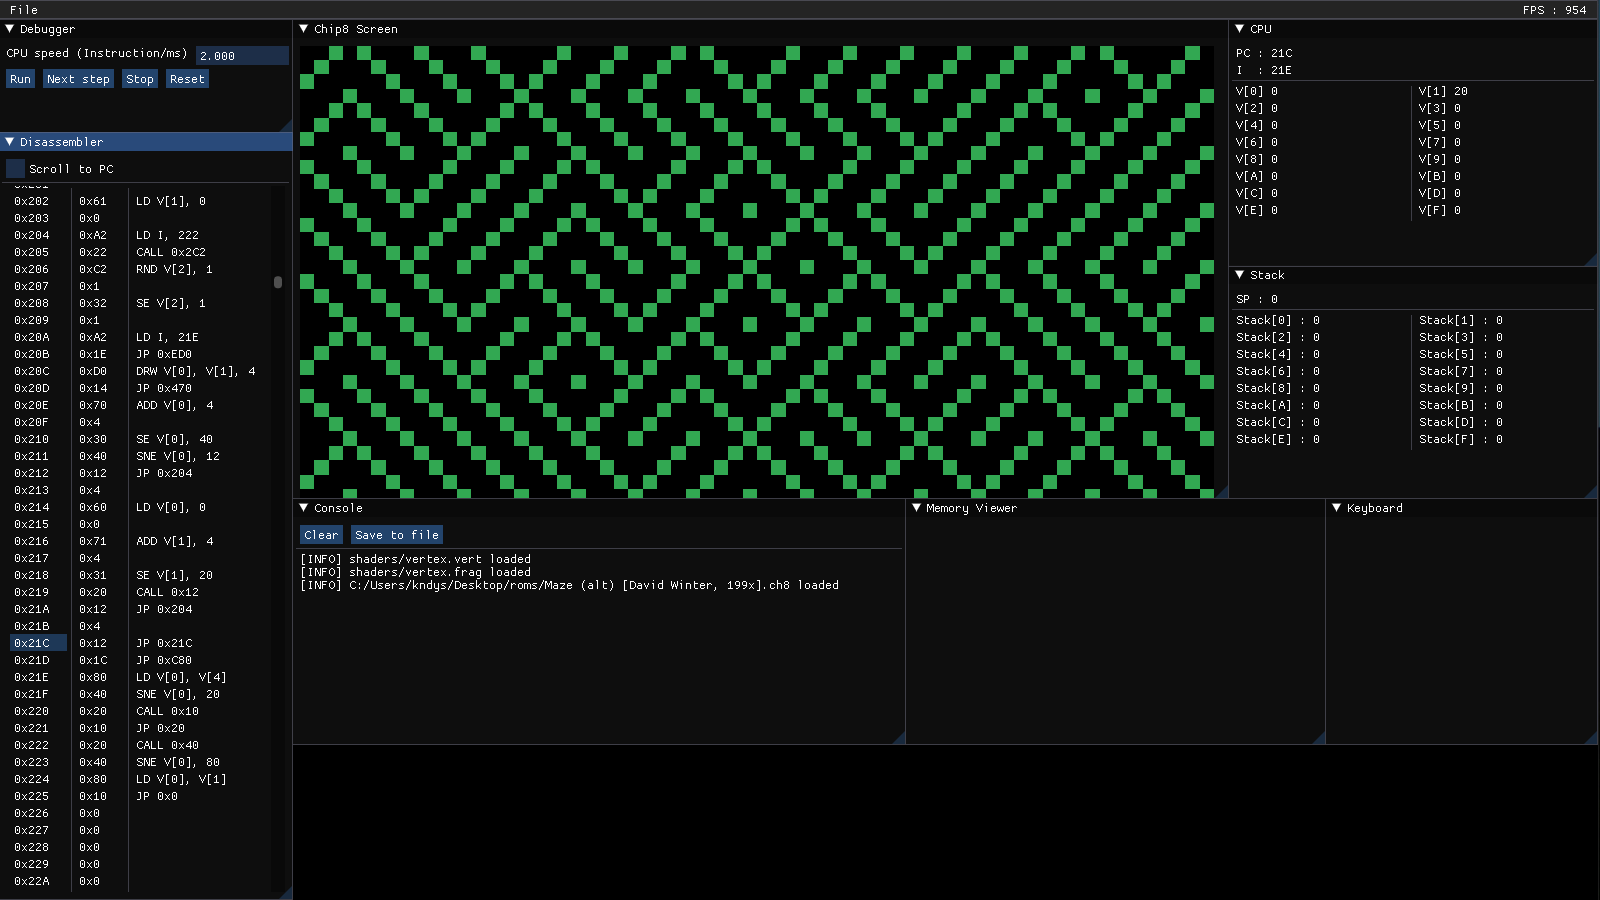
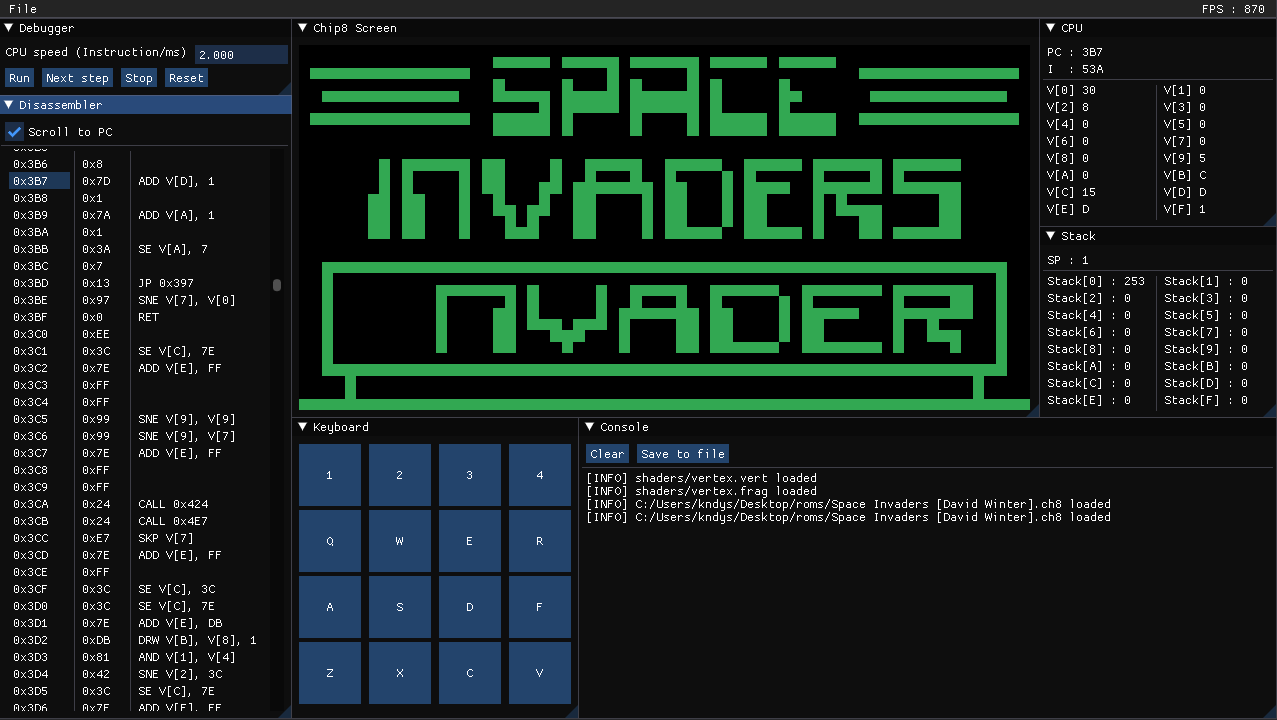
add program image

diff --git a/src/Gui/KeyboardHandler.cpp b/src/Gui/KeyboardHandler.cpp
@@ -2,12 +2,58 @@
 
 KeyboardHandler::KeyboardHandler()
 {
-    _buttonSize = ImVec2(45, 45);
+    _buttonSize = ImVec2(62, 62);
 }
 
 void KeyboardHandler::HandleInterface()
 {
     ImGui::Begin("Keyboard");
-    
+
+    DisplayButton("1", ImGuiKey_1);
+    ImGui::SameLine();
+    DisplayButton("2", ImGuiKey_2);
+    ImGui::SameLine();
+    DisplayButton("3", ImGuiKey_3);
+    ImGui::SameLine();
+    DisplayButton("4", ImGuiKey_4); 
+  
+    DisplayButton("Q", ImGuiKey_Q);
+    ImGui::SameLine();
+    DisplayButton("W", ImGuiKey_W);
+    ImGui::SameLine();
+    DisplayButton("E", ImGuiKey_E);
+    ImGui::SameLine();
+    DisplayButton("R", ImGuiKey_R);
+
+    DisplayButton("A", ImGuiKey_A);
+    ImGui::SameLine();
+    DisplayButton("S", ImGuiKey_S);
+    ImGui::SameLine();
+    DisplayButton("D", ImGuiKey_D);
+    ImGui::SameLine();
+    DisplayButton("F", ImGuiKey_F);
+
+    DisplayButton("Z", ImGuiKey_Z);
+    ImGui::SameLine();
+    DisplayButton("X", ImGuiKey_X);
+    ImGui::SameLine();
+    DisplayButton("C", ImGuiKey_C);
+    ImGui::SameLine();
+    DisplayButton("V", ImGuiKey_V);
+      
     ImGui::End();
+}
+
+void KeyboardHandler::DisplayButton(const char* text, unsigned int keyCode) noexcept
+{
+    if (ImGui::IsKeyDown(keyCode))
+    {
+        ImGui::PushStyleColor(ImGuiCol_Button, ImGui::GetStyle().Colors[ImGuiCol_ButtonActive]);
+        ImGui::Button(text, _buttonSize);
+        ImGui::PopStyleColor();
+    }
+    else
+    {
+        ImGui::Button(text, _buttonSize);
+    }
 }

diff --git a/src/Gui/Menu.cpp b/src/Gui/Menu.cpp
@@ -49,11 +49,9 @@ void Menu::ManageFileLoading()
             _fileReader.read(buffer, size);
             _fileReader.close();
 
-            MemoryViewer::GetInstance()->GetMemoryRom().reserve(size);
             for (size_t i = 0; i < size; i++)
             {
-                CPU::GetInstance()->GetMemory()[Chip8::PROGRAM_START_LOC + i] = buffer[i];
-                MemoryViewer::GetInstance()->GetMemoryRom().push_back(buffer[i]);
+                CPU::GetInstance()->GetMemory()[Chip8::PROGRAM_START_LOC + i] = buffer[i];             
             }
                        
             delete[] buffer;

diff --git a/include/Gui/KeyboardHandler.hpp b/include/Gui/KeyboardHandler.hpp
@@ -1,3 +1,5 @@
+#include <stdio.h>
+
 #include "Gui.hpp"
 
 #pragma once
@@ -21,5 +23,13 @@ public :
      */
     void HandleInterface();
 private :
+    /**
+     * @brief Display a button and change color depending of if he is pressed
+     * 
+     * @param text to display in the button
+     * @param keyCode enum value of imgui about keys
+     */
+    void DisplayButton(const char* text, unsigned int keyCode) noexcept;
+
     ImVec2 _buttonSize;
 };

diff --git a/src/Application.cpp b/src/Application.cpp
@@ -35,7 +35,6 @@ Application::Application()
     _guiComponents.emplace_back(&_cpuInfo);
     _guiComponents.emplace_back(&_disassembler);
     _guiComponents.emplace_back(&_keyboardHandler);
-    _guiComponents.emplace_back(MemoryViewer::GetInstance());
     _guiComponents.emplace_back(&_menu);
     _guiComponents.emplace_back(&_debugger);
     _guiComponents.emplace_back(&_screen); 

diff --git a/src/Settings.cpp b/src/Settings.cpp
@@ -1,6 +1,6 @@
 #include "Settings.hpp"
 
-unsigned int Settings::windowWidth   = 1600;
-unsigned int Settings::windowHeight  = 900;
+unsigned int Settings::windowWidth   = 1280;
+unsigned int Settings::windowHeight  = 720;
 const char*  Settings::title         = "Chip8 Interpreter";
 float        Settings::cpuSpeed      = 100;

diff --git a/include/Application.hpp b/include/Application.hpp
@@ -10,7 +10,6 @@
 #include "Gui/CpuInfo.hpp"
 #include "Gui/Disassembler.hpp"
 #include "Gui/KeyboardHandler.hpp"
-#include "Gui/MemoryViewer.hpp"
 #include "Gui/Menu.hpp"
 #include "Gui/Debugger.hpp"
 #include "Gui/Screen.hpp"

diff --git a/include/Gui/Menu.hpp b/include/Gui/Menu.hpp
@@ -6,7 +6,6 @@
 #include "../Chip8/CPU.hpp"
 
 #include "ConsoleLog.hpp"
-#include "MemoryViewer.hpp"
 
 #pragma once
 

diff --git a/include/Gui/Disassembler.hpp b/include/Gui/Disassembler.hpp
@@ -2,8 +2,6 @@
 
 #include "../Chip8/CPU.hpp"
 
-#include "MemoryViewer.hpp"
-
 #pragma once
 
 /**
